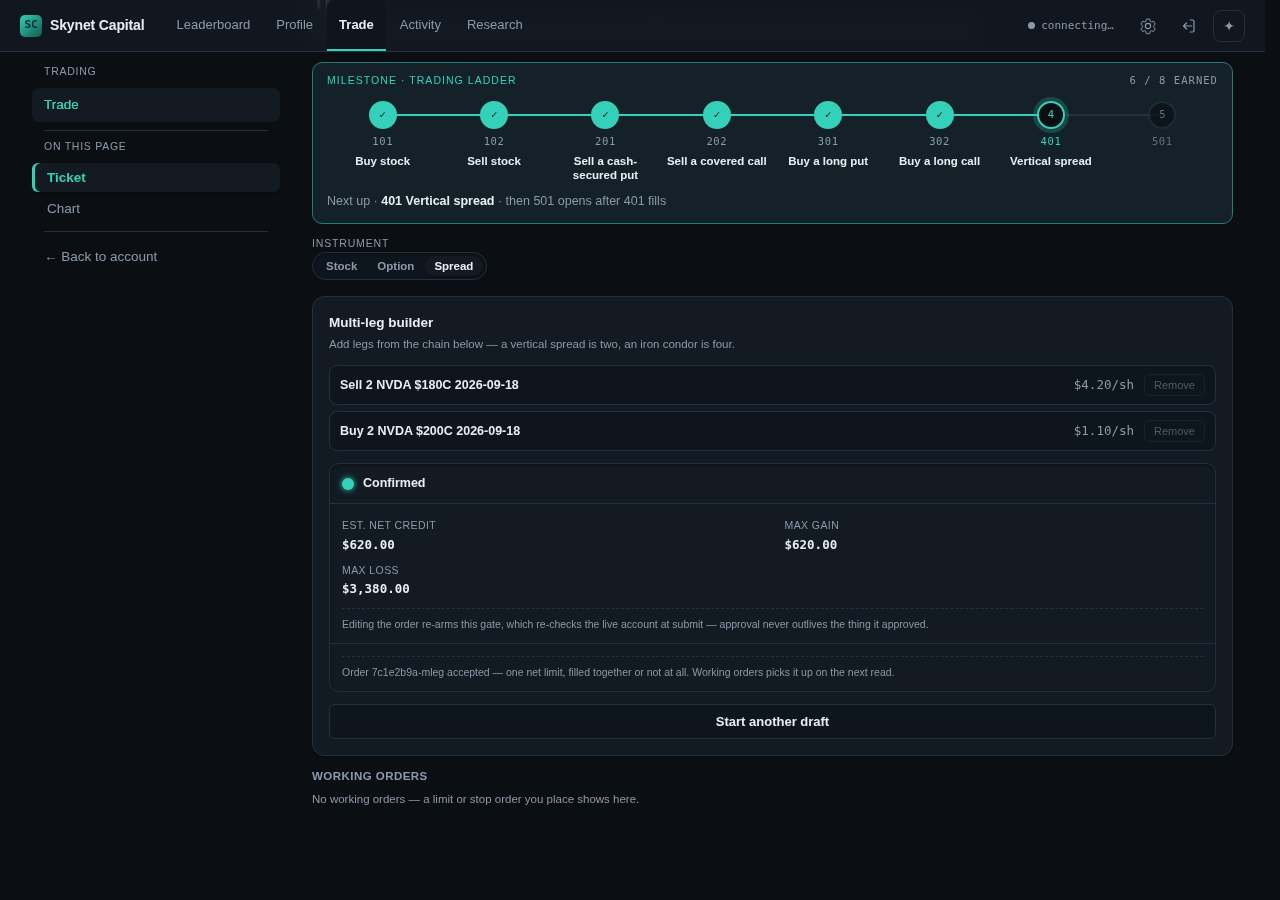
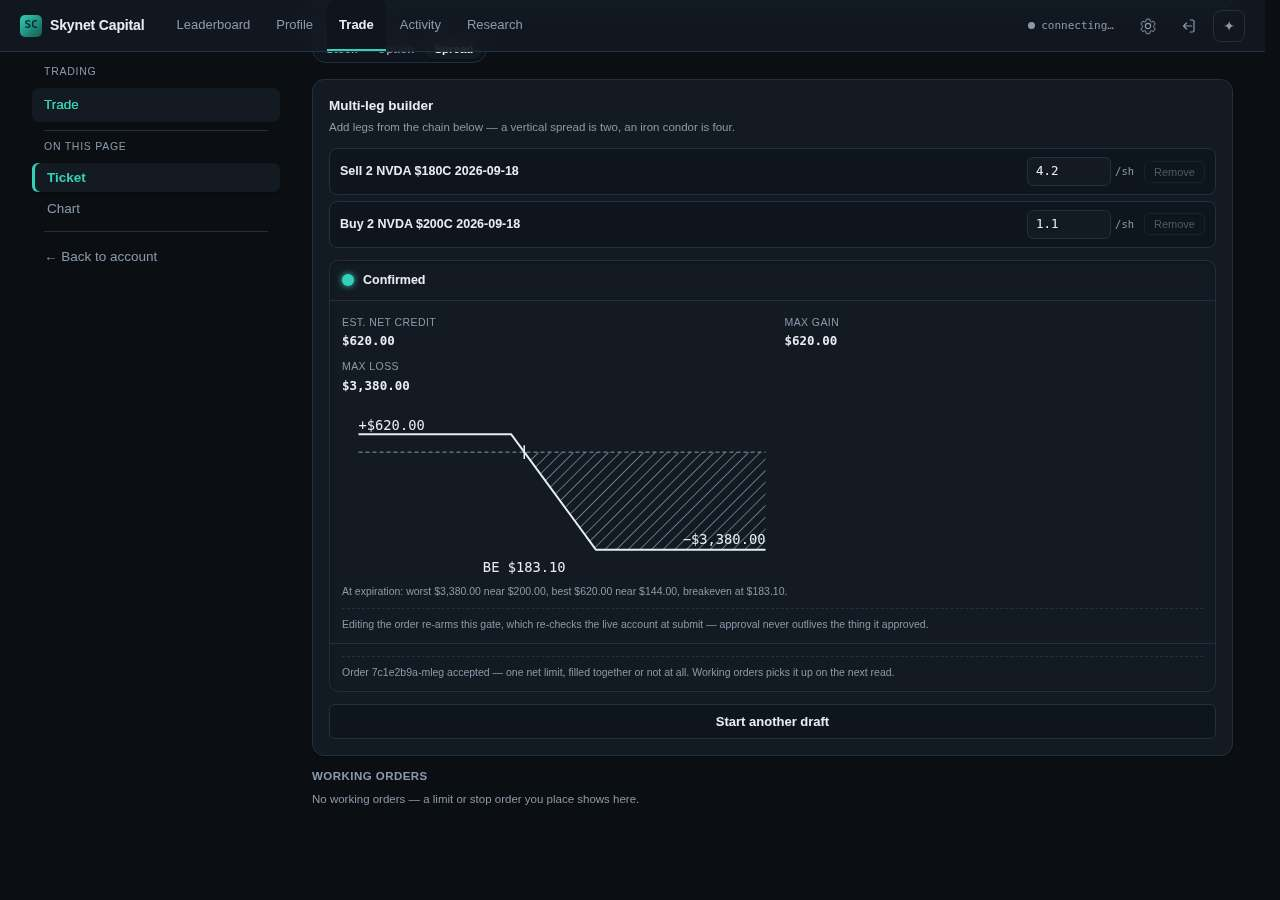
feat(trade): payoff diagram on the multi-leg review — max loss unavoidable on screen (#3407) (#3443)
## The picture

<img
src="https://raw.githubusercontent.com/ejclark/skynet-capital/50c9b470e1aae24efe5ac3acdaf1a28d1a45dfb3/docs/shots/spread-sent/spread-confirm-phone.jpg"
width="300" alt="Multi-leg review at 390px: est. net credit, max gain
and max loss, then the payoff diagram — a flat line at plus 620 dollars
below the short strike, a slope through the breakeven at 183.10 ticked
on the axis, a hatched loss plateau labelled minus 3,380 dollars — with
a one-line caption, Day GTC and Confirm order" /> <img
src="https://raw.githubusercontent.com/ejclark/skynet-capital/50c9b470e1aae24efe5ac3acdaf1a28d1a45dfb3/docs/shots/spread-sent/spread-sent-desktop.jpg"
width="560" alt="The same review at 1280px after Confirm, the payoff
diagram drawn at its capped width beneath the grid" />

_Caption — the multi-leg review with the at-expiration payoff drawn
(`npm run shoot:trade`): the server samples the curve, the review draws
it — loss side hatched, breakeven ticked and named, extremes in words.
Nothing on it rides on hue._

## Summary

- The multi-leg review draws the at-expiration P&L curve the server
sampled; max loss is on screen, not just in a cell.
- Breakevens are interpolated exactly on the server and ticked on the
chart; "unlimited" stays a word.
- Review live after deploy: /app/trade?play=401 (build two legs, Review)

<details>
<summary><strong>Why, acceptance &amp; the weeds</strong></summary>

### Why

The study's row 8 borrowed Robinhood's strategy builder on one
[…]

diff --git a/app/src/shell/payoff-chart.tsx b/app/src/shell/payoff-chart.tsx
@@ -1,0 +1,109 @@
+import type { ReactElement } from "react";
+import { useId } from "react";
+import type { PayoffCurve } from "../live/draft-order";
+import { money } from "../live/ticket";
+
+/**
+ * THE PAYOFF DIAGRAM (#3407; the study's rows 8 and 19 — max loss unavoidable on screen; RH
+ * Simulated Returns, Fidelity's P/L calculator, tos Risk Profile): the at-expiration P&L curve
+ * the server sampled (`draft-order-preview.ts`), drawn as one polyline over a zero line, with
+ * the breakevens ticked on the price axis and the worst and best points labelled in words. The
+ * numbers are the server's — this component scales, it never computes a payoff.
+ *
+ * A standing reader is red/green colourblind, so the profit and loss sides never differ by hue
+ * alone: the loss region is hatched, the zero line is dashed, and every extreme carries a text
+ * label. Absent points render nothing — an empty chart would read as a flat $0 line.
+ * @category trading
+ */
+
+const WIDTH = 320;
+const HEIGHT = 120;
+const PAD = { top: 14, right: 12, bottom: 22, left: 12 };
+
+export function PayoffChart({
+  curve,
+  maxLoss,
+}: {
+  readonly curve: PayoffCurve;
+  readonly maxLoss: number | "unlimited";
+}): ReactElement | null {
+  const hatchId = useId();
+  const { points, breakevens, from, to } = curve;
+  if (points.length < 2 || to <= from) return null;
+  const pnls = points.map((p) => p.pnl);
+  const lo = Math.min(0, ...pnls);
+  const hi = Math.max(0, ...pnls);
+  const span = hi - lo || 1;
+  const x = (price: number) =>
+    PAD.left + ((price - from) / (to - from)) * (WIDTH - PAD.left - PAD.right);
+  const y = (pnl: number) => PAD.top + ((hi - pnl) / span) * (HEIGHT - PAD.top - PAD.bottom);
+  const zero = y(0);
+  const path = points
+    .map((p, i) => `${i === 0 ? "M" : "L"}${x(p.price).toFixed(1)} ${y(p.pnl).toFixed(1)}`)
+    .join(" ");
+  const area = `${path} L${x(points[points.length - 1]?.price ?? to).toFixed(1)} ${zero.toFixed(1)} L${x(points[0]?.price ?? from).toFixed(1)} ${zero.toFixed(1)} Z`;
+  // The first point reaching each extreme names it; the label sits at the END of that plateau
+  // (the last point still at the extreme), off the slope that leads into it.
+  const worst = points.reduce((a, b) => (b.pnl < a.pnl ? b : a));
+  const best = points.reduce((a, b) => (b.pnl > a.pnl ? b : a));
+  const worstEnd = points.reduce((a, b) => (b.pnl <= a.pnl ? b : a));
+  const bestStart = best;
+  const summary = `At expiration: worst ${maxLoss === "unlimited" ? "unlimited" : money(-worst.pnl)} near ${money(worst.price)}, best ${money(best.pnl)} near ${money(best.price)}${
+    breakevens.length ? `, breakeven at ${breakevens.map((b) => money(b)).join(" and ")}` : ""
+  }.`;
+  return (
+    <figure className="payoff">
+      <svg
+        className="payoff-svg"
+        viewBox={`0 0 ${WIDTH} ${HEIGHT}`}
+        role="img"
+        aria-label={summary}
+        preserveAspectRatio="xMidYMid meet"
+      >
+        <defs>
+          <pattern
+            id={hatchId}
+            width="6"
+            height="6"
+            patternUnits="userSpaceOnUse"
+            patternTransform="rotate(45)"
+          >
+            <line x1="0" y1="0" x2="0" y2="6" className="payoff-hatch" />
+          </pattern>
+        </defs>
+        {/* The loss side: the curve's area below zero, hatched — a texture, never a hue alone. */}
+        <clipPath id={`${hatchId}-loss`}>
+          <rect x="0" y={zero} width={WIDTH} height={Math.max(0, HEIGHT - zero)} />
+        </clipPath>
+        <path d={area} fill={`url(#${hatchId})`} clipPath={`url(#${hatchId}-loss)`} />
+        <line x1={PAD.left} x2={WIDTH - PAD.right} y1={zero} y2={zero} className="payoff-zero" />
+        {breakevens.map((price) => (
+          <g key={price}>
+            <line x1={x(price)} x2={x(price)} y1={zero - 5} y2={zero + 5} className="payoff-tick" />
+            <text x={x(price)} y={HEIGHT - 6} textAnchor="middle" className="payoff-label">
+              BE {money(price)}
+            </text>
+          </g>
+        ))}
+        <path d={path} className="payoff-line" />
+        <text
+          x={x(worstEnd.price)}
+          y={Math.max(PAD.top + 6, y(worst.pnl) - 4)}
+          textAnchor="end"
+          className="payoff-label"
+        >
+          {maxLoss === "unlimited" ? "loss unlimited ↓" : `−${money(-worst.pnl)}`}
+        </text>
+        <text
+          x={x(bestStart.price)}
+          y={Math.max(PAD.top - 3, y(best.pnl) - 4)}
+          textAnchor="start"
+          className="payoff-label"
+        >
+          {`+${money(best.pnl)}`}
+        </text>
+      </svg>
+      <figcaption className="payoff-caption">{summary}</figcaption>
+    </figure>
+  );
+}

diff --git a/src/trading/draft-order-preview.ts b/src/trading/draft-order-preview.ts
@@ -30,6 +30,62 @@ export interface DraftPreview {
   readonly unlimitedLoss: boolean;
   /** Which legs are behind the unlimited-loss warning, for the review screen to point at. */
   readonly undefinedRiskLegIds: readonly string[];
+  /** The at-expiration curve the review draws (#3407; the study's row 8: max loss unavoidable
+   *  on screen) — sampled server-side so the chart is the same arithmetic as the numbers above,
+   *  never a second copy in the browser. Absent for an empty draft. */
+  readonly payoff?: PayoffCurve;
+}
+
+export interface PayoffPoint {
+  readonly price: number;
+  readonly pnl: number;
+}
+
+export interface PayoffCurve {
+  /** Evenly spaced across the window, plus every strike, ascending by price. */
+  readonly points: readonly PayoffPoint[];
+  /** Where the curve crosses $0, interpolated between samples; empty when it never does. */
+  readonly breakevens: readonly number[];
+  /** The sampled window: 20% below the lowest strike to 20% above the highest. */
+  readonly from: number;
+  readonly to: number;
+}
+
+/** How many evenly spaced samples the curve carries besides the strikes themselves. */
+export const PAYOFF_SAMPLES = 40;
+
+/**
+ * The curve as points: even samples across the window plus the strikes (the only kinks), so a
+ * polyline through them is exact, and the zero crossings between consecutive points by linear
+ * interpolation — exact too, since each segment is linear.
+ */
+export function payoffCurve(legs: readonly DraftLeg[]): PayoffCurve | undefined {
+  if (legs.length === 0) return undefined;
+  const strikes = legs.map((leg) => leg.strike);
+  const from = Math.max(0, Math.min(...strikes) * 0.8);
+  const to = Math.max(...strikes) * 1.2;
+  const prices = new Set<number>(strikes);
+  for (let i = 0; i <= PAYOFF_SAMPLES; i += 1) {
+    prices.add(round2(from + ((to - from) * i) / PAYOFF_SAMPLES));
+  }
+  const points = [...prices]
+    .sort((a, b) => a - b)
+    .map((price) => ({ price, pnl: round2(netPnlAt(legs, price)) }));
+  const breakevens: number[] = [];
+  for (let i = 1; i < points.length; i += 1) {
+    const a = points[i - 1];
+    const b = points[i];
+    if (!(a && b)) continue;
+    if (a.pnl === 0 && (i === 1 || (points[i - 2]?.pnl ?? 0) !== 0)) breakevens.push(a.price);
+    if ((a.pnl < 0 && b.pnl > 0) || (a.pnl > 0 && b.pnl < 0)) {
+      breakevens.push(round2(a.price + ((b.price - a.price) * -a.pnl) / (b.pnl - a.pnl)));
+    }
+  }
+  return { points, breakevens, from: round2(from), to: round2(to) };
+}
+
+function round2(n: number): number {
+  return Math.round((n + Number.EPSILON) * 100) / 100;
 }
 
 function legValueAt(leg: DraftLeg, price: number): number {
@@ -97,5 +153,6 @@ export function draftPreview(draft: DraftOrder): DraftPreview {
     maxLoss: risky.length > 0 ? "unlimited" : Math.max(0, -minPnl),
     unlimitedLoss: risky.length > 0,
     undefinedRiskLegIds: risky.map((leg) => leg.id),
+    ...(legs.length > 0 ? { payoff: payoffCurve(legs) } : {}),
   };
 }

diff --git a/app/tests/shell/payoff-chart.spec.tsx b/app/tests/shell/payoff-chart.spec.tsx
@@ -1,0 +1,48 @@
+import { render, screen } from "@testing-library/react";
+import { PayoffChart } from "../../src/shell/payoff-chart";
+
+/**
+ * The payoff diagram (#3407; rows 8 / 19): the server's points drawn as one line, the breakevens
+ * ticked and named, the worst and best labelled in words, "unlimited" when the server said so —
+ * and nothing at all for a curve too thin to draw.
+ */
+
+const curve = {
+  from: 144,
+  to: 240,
+  breakevens: [183.1],
+  points: [
+    { price: 144, pnl: 310 },
+    { price: 180, pnl: 310 },
+    { price: 183.1, pnl: 0 },
+    { price: 200, pnl: -1690 },
+    { price: 240, pnl: -1690 },
+  ],
+};
+
+describe("PayoffChart", () => {
+  it("names the extremes and the breakeven for a reader who cannot see the line", () => {
+    const { container } = render(<PayoffChart curve={curve} maxLoss={1690} />);
+    expect(screen.getByRole("img").getAttribute("aria-label")).toBe(
+      "At expiration: worst $1,690.00 near $200.00, best $310.00 near $144.00, breakeven at $183.10.",
+    );
+    expect(screen.getByText("BE $183.10")).toBeInTheDocument();
+    expect(screen.getByText("−$1,690.00")).toBeInTheDocument();
+    expect(screen.getByText("+$310.00")).toBeInTheDocument();
+    expect(container.querySelector(".payoff-line")).not.toBeNull();
+    expect(container.querySelector(".payoff-zero")).not.toBeNull();
+  });
+
+  it("says unlimited in words when the server did", () => {
+    render(<PayoffChart curve={curve} maxLoss="unlimited" />);
+    expect(screen.getByText("loss unlimited ↓")).toBeInTheDocument();
+    expect(screen.getByRole("img").getAttribute("aria-label")).toContain("worst unlimited");
+  });
+
+  it("draws nothing for a curve with fewer than two points", () => {
+    const { container } = render(
+      <PayoffChart curve={{ ...curve, points: [{ price: 180, pnl: 0 }] }} maxLoss={0} />,
+    );
+    expect(container.querySelector("svg")).toBeNull();
+  });
+});

diff --git a/tests/trading/draft-order-preview.spec.ts b/tests/trading/draft-order-preview.spec.ts
@@ -1,5 +1,5 @@
 import { addLeg, emptyDraft, type NewLeg } from "../../src/trading/draft-order.js";
-import { draftPreview } from "../../src/trading/draft-order-preview.js";
+import { draftPreview, payoffCurve } from "../../src/trading/draft-order-preview.js";
 
 /**
  * Slice 3's pure half: the payoff arithmetic behind the review screen. The interesting cases are
@@ -55,6 +55,30 @@ describe("draftPreview", () => {
     const preview = draftPreview(unpriced);
 
     expect(preview.pricedFully).toBe(false);
+  });
+
+  it("samples the at-expiration curve through every strike and finds the breakeven exactly", () => {
+    const spread = addLeg(addLeg(emptyDraft(), SHORT_CALL), LONG_CALL);
+    const curve = payoffCurve(spread.legs);
+    expect(curve).toBeDefined();
+    if (!curve) return;
+    expect(curve.from).toBeCloseTo(144); // 180 × 0.8
+    expect(curve.to).toBeCloseTo(240); // 200 × 1.2
+    const prices = curve.points.map((p) => p.price);
+    expect(prices).toContain(180);
+    expect(prices).toContain(200);
+    expect([...prices].sort((a, b) => a - b)).toEqual(prices);
+    // Flat at the credit below the short strike, flat at the capped loss above the long one.
+    expect(curve.points[0]?.pnl).toBeCloseTo(310);
+    expect(curve.points.at(-1)?.pnl).toBeCloseTo(-1_690);
+    // 180 + 3.10 net credit is where the spread stops paying.
+    expect(curve.breakevens).toEqual([183.1]);
+    expect(draftPreview(spread).payoff).toEqual(curve);
+  });
+
+  it("carries no curve for an empty draft", () => {
+    expect(payoffCurve([])).toBeUndefined();
+    expect(draftPreview(emptyDraft()).payoff).toBeUndefined();
   });
 
   it("has nothing to price on an empty draft", () => {

diff --git a/app/src/styles/draft-builder.css b/app/src/styles/draft-builder.css
@@ -75,3 +75,48 @@
   font-weight: 600;
   line-height: 1.5;
 }
+
+/* The payoff diagram (#3407; rows 8 / 19): one polyline over a dashed zero line, the loss side
+   hatched — texture and words carry the meaning, never hue alone. Scales to the panel's width. */
+.payoff {
+  margin: var(--space-3) 0 0;
+}
+.payoff-svg {
+  display: block;
+  width: 100%;
+  max-width: min(100%, 52ch);
+  height: auto;
+  aspect-ratio: 320 / 120;
+  overflow: visible;
+}
+.payoff-line {
+  fill: none;
+  stroke: var(--text);
+  stroke-width: 2;
+  vector-effect: non-scaling-stroke;
+}
+.payoff-zero {
+  stroke: var(--muted);
+  stroke-width: 1;
+  stroke-dasharray: 4 3;
+  vector-effect: non-scaling-stroke;
+}
+.payoff-tick {
+  stroke: var(--text);
+  stroke-width: 1.5;
+  vector-effect: non-scaling-stroke;
+}
+.payoff-hatch {
+  stroke: var(--muted);
+  stroke-width: 1;
+}
+.payoff-label {
+  font-family: var(--mono);
+  font-size: 10px;
+  fill: var(--text);
+}
+.payoff-caption {
+  margin: var(--space-1) 0 0;
+  font-size: var(--text-xs);
+  color: var(--muted);
+}

diff --git a/app/src/shell/draft-order-builder.tsx b/app/src/shell/draft-order-builder.tsx
@@ -16,8 +16,8 @@ import {
 import { money, type TicketTimeInForce, tifLabel } from "../live/ticket";
 import { DraftLegForm } from "./draft-leg-form";
 import { LegRow } from "./draft-leg-row";
-
 import { DisarmNote, GateHead } from "./gate-frame";
+import { PayoffChart } from "./payoff-chart";
 import { TimeInForceField } from "./tif-field";
 
 /**
@@ -132,6 +132,7 @@ export function ReviewBody({
         <div className="gate-body">
           <UnlimitedLossBanner preview={preview} />
           <PayoffGrid preview={preview} />
+          {preview.payoff ? <PayoffChart curve={preview.payoff} maxLoss={preview.maxLoss} /> : null}
           {!preview.pricedFully ? (
             <p className="gate-note">
               One or more legs has no limit price — the numbers above assume $0 for that leg until

diff --git a/app/src/live/draft-order.ts b/app/src/live/draft-order.ts
@@ -38,6 +38,19 @@ export interface DraftOrder {
   readonly nextLegId: number;
 }
 
+export interface PayoffPoint {
+  readonly price: number;
+  readonly pnl: number;
+}
+
+/** The server-sampled at-expiration curve (`draft-order-preview.ts`'s `payoffCurve`). */
+export interface PayoffCurve {
+  readonly points: readonly PayoffPoint[];
+  readonly breakevens: readonly number[];
+  readonly from: number;
+  readonly to: number;
+}
+
 export interface DraftPreview {
   readonly legCount: number;
   readonly pricedFully: boolean;
@@ -46,6 +59,7 @@ export interface DraftPreview {
   readonly maxLoss: number | "unlimited";
   readonly unlimitedLoss: boolean;
   readonly undefinedRiskLegIds: readonly string[];
+  readonly payoff?: PayoffCurve;
 }
 
 export const emptyDraft = (): DraftOrder => ({

diff --git a/docs/research/trading-parity-2026-09.md b/docs/research/trading-parity-2026-09.md
@@ -710,7 +710,7 @@ plan, not a constraint on the designs.
 | Trade a single option leg (201/202/301/302) | exists — limit / market | `option-gate.tsx`, `src/trading/option-ticket.ts` |
 | Greeks / probability on the order being placed | missing — chain-only, never on the ticket or preview | `app/src/live/options.ts:76-98` |
 | Max profit / max loss / breakeven | exists (single leg and spread preview) | `app/src/shell/option-preview.tsx:32-52`, `draft-order-builder.tsx:78-102` |
-| Payoff diagram | missing | — |
+| Payoff diagram | **built** (multi-leg review) — the server samples the at-expiration curve through every strike; the review draws it with the loss side hatched, breakevens ticked, extremes in words | `src/trading/draft-order-preview.ts` `payoffCurve`, `app/src/shell/payoff-chart.tsx` |
 | Review then confirm, disarm on edit | exists, both tickets; the server re-checks the live account at submit | `trade-gate.tsx:35-41,190-195`, `option-preview.tsx:15-21` |
 | Build a vertical / multi-leg spread | **built** (P3 slices 2, 4) — legs off the chain, each leg's premium editable in its row, a running net while drafting, validates, previews payoff | `app/src/shell/draft-order-builder.tsx`, `draft-leg-form.tsx`, `draft-leg-row.tsx` |
 | **Submit** a multi-leg spread | **built** (P3 slice 1) — one `mleg` order through `draft-trade-service.ts`; the headline is the broker's echo; the wiring into the protected gate is its own held PR | `src/server/draft-trade-service.ts`, `src/server/draft-order-route.ts` |
@@ -874,7 +874,7 @@ missing. Two prior decisions were added to §3.4: #674 (open orders live on the 
 | Watchlist | lists + pending badge [R22][R21] | multiple lists, sync [F27][F38] | linked, dynamic [T-Q] | missing | build (P4) | persisted member state |
 | Alerts / notifications | price, options, order-status push [R24][R25][R27] | four alert types, push/text/email [F38] | any value, push/email/SMS [T-AL] | **built-unwired** — `src/alerts/*` substrate (#586), no delivery | build (P4) — delivery keys are Eric's step | push/email credentials (irreversible class) |
 | Greeks / probability on the order screen | tap-a-strike shows greeks + chance of profit [R36] | multi-select shows PoP, max P/L [F38] | Probability ITM/OTM columns [T-DP] | **built** (P2 slice 2) — greeks, IV from the mid, chance of profit beside expected value on the review (`src/options/single-leg-odds.ts`, `option-preview.tsx`) | build (P2) | done; the payoff diagram inline is the falsifier's next move |
-| Payoff diagram | Simulated Returns, P/L chart [R38][R40] | P/L calculator [F39] | Risk Profile [T-AN] | **built-unwired** — `src/options/payoff-surface.ts` | build (P2) | presentation only |
+| Payoff diagram | Simulated Returns, P/L chart [R38][R40] | P/L calculator [F39] | Risk Profile [T-AN] | **built** on the multi-leg review (at-expiration, `payoff-chart.tsx`); the time × IV surface (`payoff-surface.ts`) stays unwired | single-leg ticket + the dated curves: next-slice | presentation only |
 | Strategy templates / builder | Strategy Builder [R37] | strategy dropdown, Strategy Builder [F25][F34] | spread menu, Spread Hacker [T-VS][T-SCAN] | **built-unwired** — `rankStructures` + `outlook.ts` (#587, #2170) | build (P3) | presentation over the ranked list |
 | All expirations / LEAPS | scroll right [R34] | weekly/monthly/quarterly/all filters [F25] | weekly/quarterly toggles [T-SETUP] | **built** (P2 slice 1) — paginated with a 3-page budget and one 429 retry (`getExpirations`) | fix (P2) | done; weekly / monthly filters are a layout slice |
 | IV on the chain | IV metric [R36] | IV column [F-frames 13] | Impl Vol, SD strikes [T-AP] | missing on the desk | build (P2) | solve from mid via `pricing.ts` |
